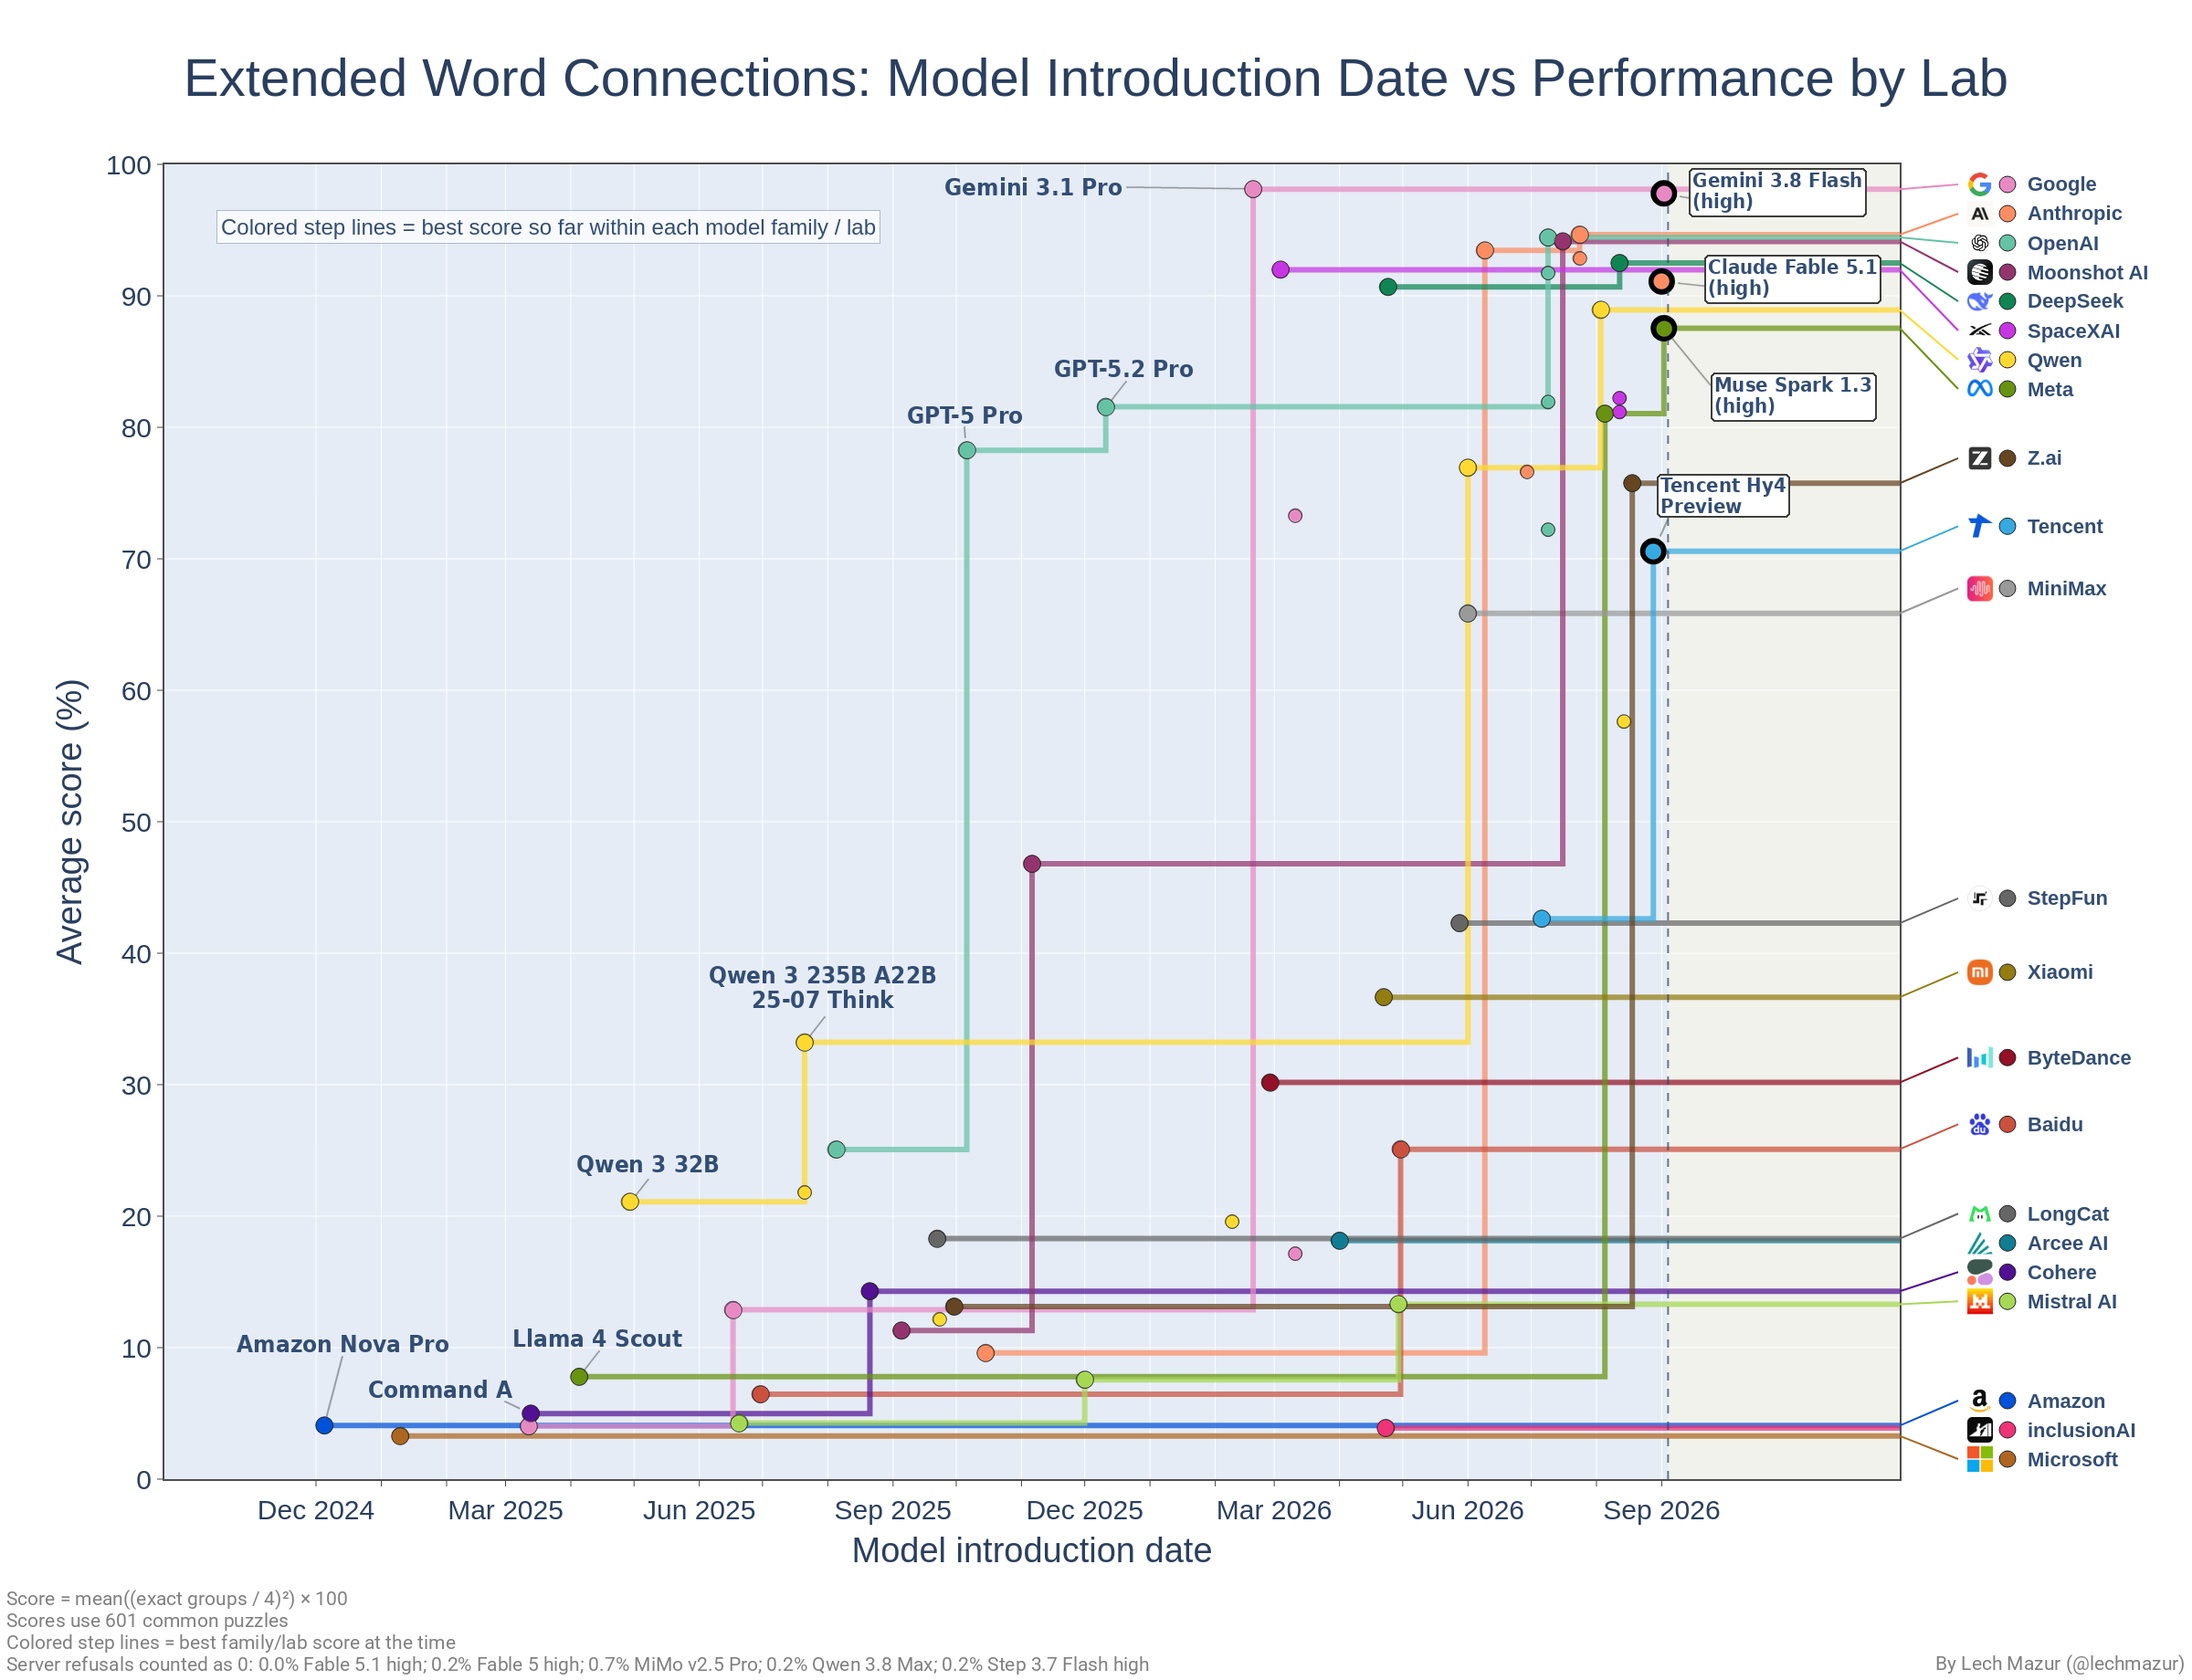
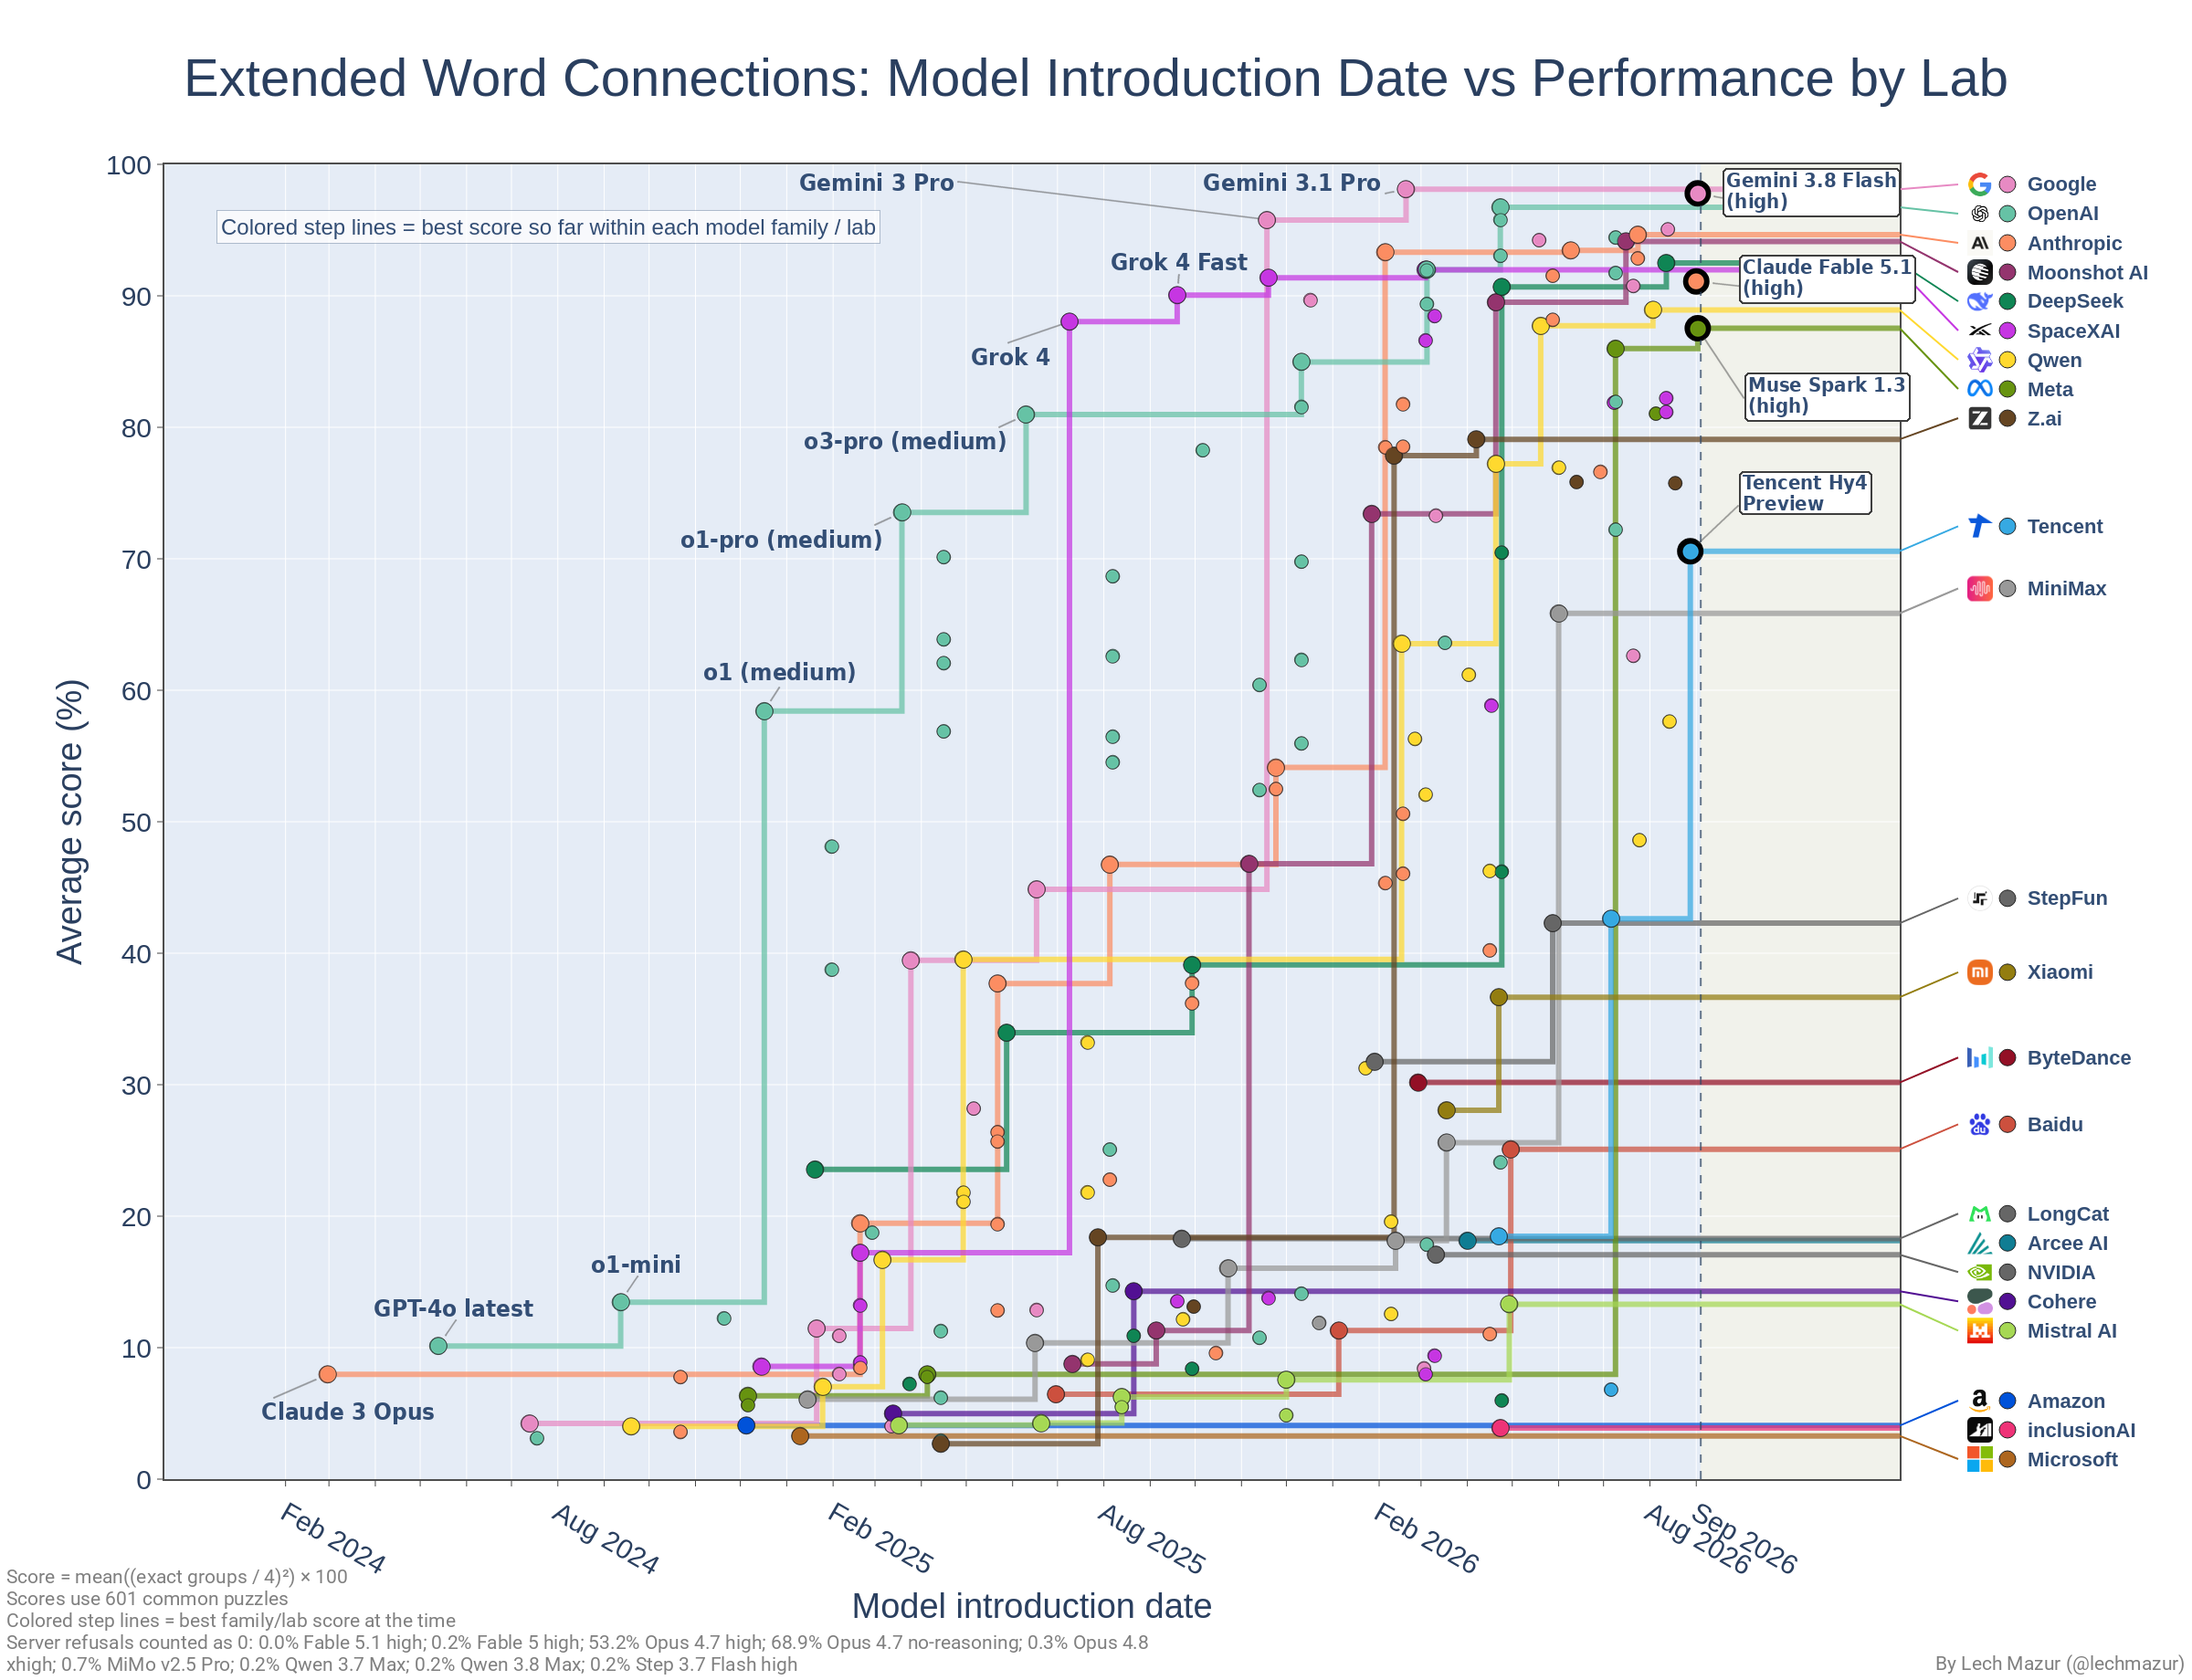
Publish historical family progress chart
Update the public README history and mirror the restored all-model family-progress chart while leaving unrelated working-tree images untouched.

diff --git a/README.md b/README.md
@@ -161,7 +161,9 @@ The main board includes only models that completed all 940 puzzles.
 ### Model family progress
 
 This chart shows score progress over time within each model family on a shared
-601-puzzle comparison set.
+601-puzzle comparison set. Unlike the current-cohort charts, it includes every
+tested model with score and release-date data, including models evaluated on
+older versions of the benchmark and models suppressed from other charts.
 
 ![Model family progress](images/model_intro_date_vs_score_family_progress_common601.png)
 
@@ -524,6 +526,9 @@ These legacy or incomplete runs use the same scoring rule but are excluded from 
 ---
 
 ## Updates
+- September 2, 2026: Gemini 3.8 Flash high and Muse Spark 1.3 high added.
+- September 1, 2026: Claude Fable 5.1 high and Tencent Hy4 Preview added.
+- August 22, 2026: Muse Spark 1.2 high, GLM-5.3 high, Qwen3.8-27B, and Tencent Hy3 high and non-thinking added.
 - August 14, 2026: Gemini 3.7 Flash added.
 - August 13, 2026: Grok 4.6 high/xhigh and DeepSeek V4 Pro high added.
 - August 4, 2026: Qwen 3.8 Max added with verified pricing.
